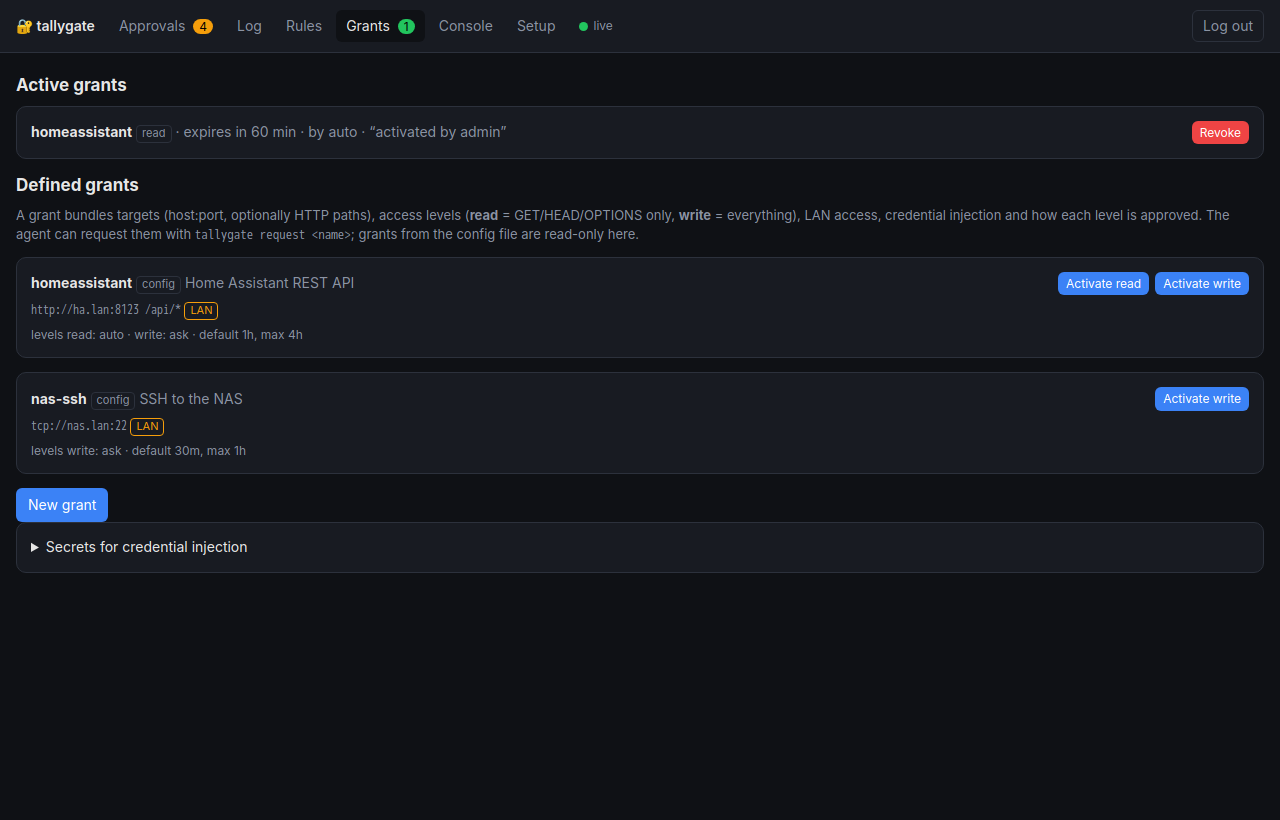
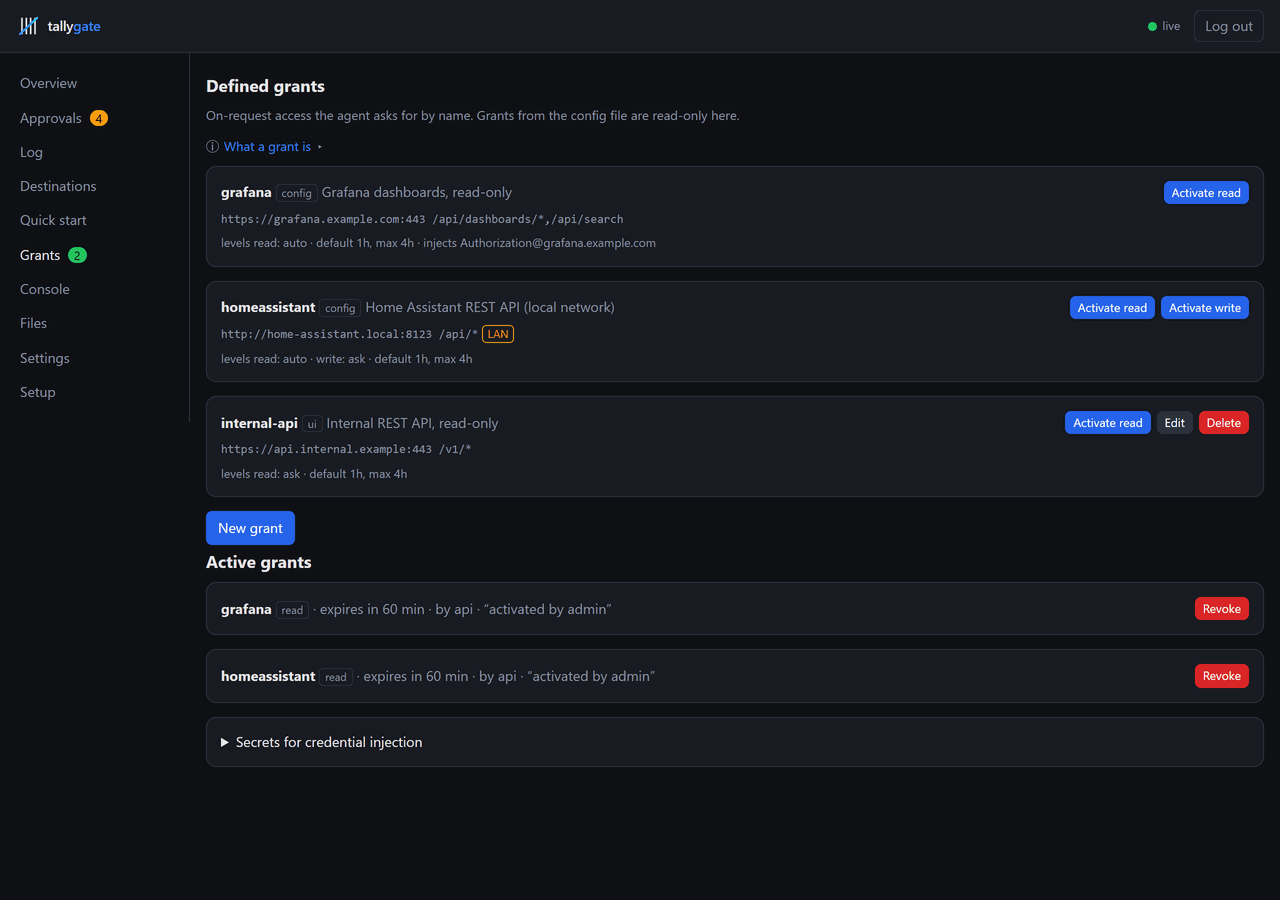
docs: retake control-UI screenshots for the reworked UI (#172)
Retake every control-UI screenshot on a browser host with neutral demo
data, matching the reworked UI (the unified Destinations tab, the
redesigned approvals with unverified-claim flags, and the sidebar nav),
and add the new Overview, Quick start and Settings tabs.

- Refresh login, approvals, log, destinations, grant-editor, grants,
  console and setup. All use public/example hosts (github.com, pypi.org,
  *.example.*), a synthetic git identity and neutral disk figures - no
  real tokens, hostnames or paths.
- Add overview.png, quickstart.png and settings.png to the screenshots
  gallery; embed Overview and Quick start in the user guide.

Closes #172

diff --git a/docs/screenshots.md b/docs/screenshots.md
@@ -7,15 +7,18 @@ check each still matches its caption.
 | Picture | Shows |
 |---|---|
 | ![Login](images/login.png) | The login page. The first-start password is printed to the control log. |
-| ![Approvals](images/approvals.png) | The Approvals tab: pending connection and grant requests, each with the destination and *allow / ask / deny* (or the grant level) and a live countdown. |
+| ![Overview](images/overview.png) | The **Overview** tab: status of Claude, Remote Control, the gateway and disk; what needs attention (waiting requests, grants ending soon, the GitHub token); the last hour's allows / denies and top destinations; versions; and the shortcuts. |
+| ![Approvals](images/approvals.png) | The Approvals tab: pending connection and grant requests, each with the destination and *allow / ask / deny* (or the grant level), a live countdown, and the agent's own reason flagged as an unverified claim. |
 | ![Log](images/log.png) | The Log tab: every connection and decision, searchable and filterable, with *allow / deny from here* and CSV/JSON export. |
-| ![Destinations](images/destinations.png) | The **Destinations** tab (ADR-0014): every destination in one place — access rules (add / edit / delete / group), on-request grants, read-only hosts, credentials and repository scope — plus the mode, shortcuts and templates, *Test a destination*, the never-reachable list, the raw-policy editor and the policy history. The former *Rules* tab was folded in here. |
-| ![Grant editor](images/grant-editor.png) | The grant editor (on the Destinations tab): name, address, type, access level, duration, and *Advanced* for several targets, paths, LAN, pinned TLS and automatic approval. |
-| ![Grants](images/grants.png) | The slim **Grants** tab: the active grants (with *Revoke*) and the write-only secrets used for credential injection. |
-| ![Console](images/console.png) | The Console tab: a terminal into the agent container. |
+| ![Destinations](images/destinations.png) | The **Destinations** tab (ADR-0014): every destination in one place — access rules (add / edit / delete / group), on-request grants, read-only hosts, credentials and repository scope — plus the config-file properties, the never-reachable deny floor with *Allow (unblock)*, and *Test a destination*. The former *Rules* tab was folded in here. |
+| ![Quick start](images/quickstart.png) | The **Quick start** tab: one-click internet shortcuts, the unknown-destination mode, per-ecosystem templates (containers, Debian/Ubuntu, Go, Hugging Face, Node.js, Python, Rust) and learning mode. |
+| ![Grants](images/grants.png) | The slim **Grants** tab: the defined grants (config-file ones read-only, UI ones editable), the active grants (with *Revoke*) and the write-only secrets used for credential injection. |
+| ![Grant editor](images/grant-editor.png) | The grant editor: name, address, type, access level, duration, and *Advanced* for several targets, paths, LAN, pinned TLS and automatic approval. |
+| ![Console](images/console.png) | The Console tab: a terminal into the agent (rc / bash / claude). |
+| ![Settings](images/settings.png) | The **Settings** tab: the default action for unmatched destinations and the approval timeout, the gateway behaviour tunables (log retention, learning, suggestions, grant limits) and the raw-policy editor. |
 | ![Setup](images/setup.png) | The guided Setup wizard for a first start. |
 
-To regenerate: start the control stack with demo data, log in, open each tab at a desktop width and a
-phone width, and capture it. Keep the data neutral — no real tokens, hostnames, or personal paths
-(see the private-data guidance). `rules.png` was renamed to `destinations.png` when the Rules tab was
-folded into Destinations.
+To regenerate: start the control stack with neutral demo data, log in, and capture each tab at a desktop
+width (1280 px). Keep the data neutral — no real tokens, hostnames, or personal paths (see the
+private-data guidance). `rules.png` was renamed to `destinations.png` when the Rules tab was folded into
+Destinations.

diff --git a/docs/user-guide.md b/docs/user-guide.md
@@ -24,6 +24,8 @@ agent has to ask for, what rules do, and where each is changed.
 
 ## Overview
 
+![Overview](images/overview.png)
+
 The start page: what the agent is doing and whether anything needs you soon. It refreshes every 30 seconds
 while it is open and at once when a request arrives or is decided.
 
@@ -189,6 +191,10 @@ One tab for everything about a destination — access rules, on-request grants, 
   policy with your UI grants as one YAML file. See [History and rollback](#history-and-rollback).
 
 ### Shortcuts
+
+The shortcuts, the per-ecosystem templates and learning mode are on the **Quick start** tab:
+
+![Quick start](images/quickstart.png)
 
 | Action | What it does | Undo |
 |---|---|---|
